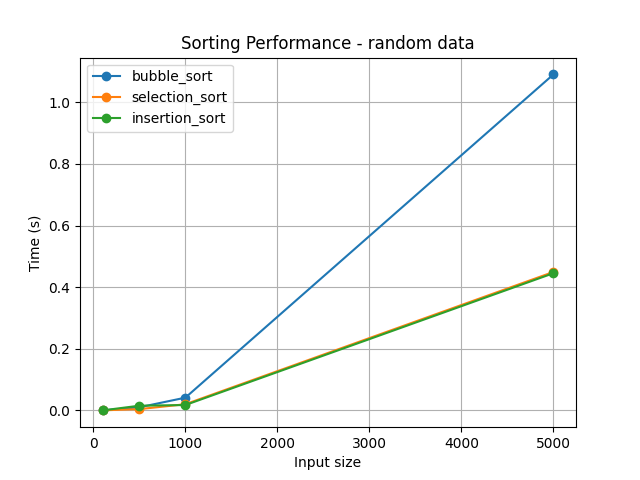
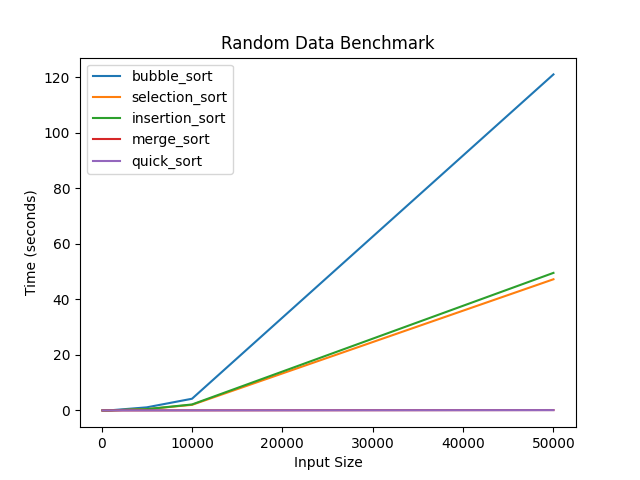
Week 2 benchmarks and performance plots

diff --git a/benchmarks/week2_performance.py b/benchmarks/week2_performance.py
@@ -1,0 +1,85 @@
+import sys
+import os
+
+# --- Ensure project root is in Python path ---
+sys.path.insert(0, os.path.abspath(os.path.join(os.path.dirname(__file__), "..")))
+
+# --- Standard imports ---
+import random
+import csv
+import time
+import matplotlib.pyplot as plt
+
+# --- Algorithm imports ---
+from src.sorting.basic_sorts import bubble_sort, selection_sort, insertion_sort
+from src.sorting.merge_sort import merge_sort
+from src.sorting.quick_sort import quick_sort
+
+# --- Configuration ---
+ALGORITHMS = {
+    "bubble_sort": bubble_sort,
+    "selection_sort": selection_sort,
+    "insertion_sort": insertion_sort,
+    "merge_sort": merge_sort,
+    "quick_sort": quick_sort
+}
+
+INPUT_SIZES = [100, 500, 1000, 5000, 10000, 50000]
+
+DATA_TYPES = {
+    "random": lambda n: [random.randint(0, n) for _ in range(n)],
+    "sorted": lambda n: list(range(n)),
+    "reverse_sorted": lambda n: list(range(n, 0, -1)),
+    "nearly_sorted": lambda n: list(range(n-1)) + [0],
+    "many_duplicates": lambda n: [random.randint(0, 9) for _ in range(n)],
+    "few_unique": lambda n: [random.choice([0,1,2]) for _ in range(n)]
+}
+
+RESULTS_DIR = "benchmarks/results"
+os.makedirs(RESULTS_DIR, exist_ok=True)
+CSV_FILE = os.path.join(RESULTS_DIR, "week2_comparison.csv")
+
+# --- Benchmark function ---
+def benchmark_algorithm(func, data):
+    """Time a single run of func on data"""
+    start = time.perf_counter()
+    func(list(data))  # use a copy to avoid modifying input
+    end = time.perf_counter()
+    return end - start
+
+# --- Run benchmarks ---
+results = []
+
+for data_name, generator in DATA_TYPES.items():
+    for size in INPUT_SIZES:
+        data = generator(size)
+        row = {"data_type": data_name, "size": size}
+        for name, func in ALGORITHMS.items():
+            # Repeat 3 times and take average
+            times = [benchmark_algorithm(func, data) for _ in range(3)]
+            row[name] = sum(times) / len(times)
+        results.append(row)
+        print(f"Completed {data_name} size {size}")
+
+# --- Save results to CSV ---
+with open(CSV_FILE, "w", newline="") as f:
+    writer = csv.DictWriter(f, fieldnames=["data_type", "size"] + list(ALGORITHMS.keys()))
+    writer.writeheader()
+    writer.writerows(results)
+
+print(f"\nBenchmark results saved to {CSV_FILE}")
+
+# --- Generate plots ---
+for data_name in DATA_TYPES.keys():
+    plt.figure()
+    for alg in ALGORITHMS.keys():
+        times = [r[alg] for r in results if r["data_type"] == data_name]
+        plt.plot(INPUT_SIZES, times, label=alg)
+    plt.xlabel("Input Size")
+    plt.ylabel("Time (seconds)")
+    plt.title(f"{data_name.replace('_', ' ').title()} Data Benchmark")
+    plt.legend()
+    plot_file = os.path.join(RESULTS_DIR, f"{data_name}_plot.png")
+    plt.savefig(plot_file)
+    plt.close()
+    print(f"Plot saved: {plot_file}")

diff --git a/src/sorting/quick_sort.py b/src/sorting/quick_sort.py
@@ -1,0 +1,53 @@
+import random
+from typing import List
+
+def quick_sort(arr: List[int], low: int = None, high: int = None, threshold: int = 10) -> List[int]:
+    """
+    QuickSort algorithm with randomized pivot and insertion sort optimization.
+
+    Args:
+        arr (List[int]): The input list to sort.
+        low (int): Starting index (default None, sets to 0).
+        high (int): Ending index (default None, sets to len(arr)-1).
+        threshold (int): Switch to insertion sort for subarrays smaller than this.
+
+    Returns:
+        List[int]: Sorted list (non-destructive).
+    """
+    if low is None or high is None:
+        arr = arr.copy()  # non-destructive
+        low = 0
+        high = len(arr) - 1
+
+    def insertion_sort(sub_arr: List[int], left: int, right: int):
+        for i in range(left + 1, right + 1):
+            key = sub_arr[i]
+            j = i - 1
+            while j >= left and sub_arr[j] > key:
+                sub_arr[j + 1] = sub_arr[j]
+                j -= 1
+            sub_arr[j + 1] = key
+
+    def partition(l: int, h: int) -> int:
+        pivot_index = random.randint(l, h)
+        arr[h], arr[pivot_index] = arr[pivot_index], arr[h]  # move pivot to end
+        pivot = arr[h]
+        i = l - 1
+        for j in range(l, h):
+            if arr[j] <= pivot:
+                i += 1
+                arr[i], arr[j] = arr[j], arr[i]
+        arr[i + 1], arr[h] = arr[h], arr[i + 1]
+        return i + 1
+
+    def _quick_sort(l: int, h: int):
+        if l < h:
+            if h - l + 1 <= threshold:
+                insertion_sort(arr, l, h)
+            else:
+                pi = partition(l, h)
+                _quick_sort(l, pi - 1)
+                _quick_sort(pi + 1, h)
+
+    _quick_sort(low, high)
+    return arr

diff --git a/src/sorting/merge_sort.py b/src/sorting/merge_sort.py
@@ -1,0 +1,34 @@
+from typing import List
+
+def merge(left: List[int], right: List[int]) -> List[int]:
+    """
+    Merge two sorted lists into a single sorted list.
+    """
+    result = []
+    i = j = 0
+
+    while i < len(left) and j < len(right):
+        if left[i] <= right[j]:
+            result.append(left[i])
+            i += 1
+        else:
+            result.append(right[j])
+            j += 1
+
+    # Append any remaining elements
+    result.extend(left[i:])
+    result.extend(right[j:])
+    return result
+
+def merge_sort(arr: List[int]) -> List[int]:
+    """
+    Perform merge sort on the input list and return a new sorted list.
+    Non-destructive: input list is not modified.
+    """
+    if len(arr) <= 1:
+        return arr[:]
+
+    mid = len(arr) // 2
+    left = merge_sort(arr[:mid])
+    right = merge_sort(arr[mid:])
+    return merge(left, right)

diff --git a/tests/test_merge_sort.py b/tests/test_merge_sort.py
@@ -1,0 +1,19 @@
+import pytest
+from src.sorting.merge_sort import merge_sort
+
+@pytest.mark.parametrize(
+    "input_list, expected",
+    [
+        ([], []),
+        ([1], [1]),
+        ([1, 2, 3, 4, 5], [1, 2, 3, 4, 5]),
+        ([5, 4, 3, 2, 1], [1, 2, 3, 4, 5]),
+        ([2, 3, 2, 1, 4, 3], [1, 2, 2, 3, 3, 4]),
+        ([5, 1, 4, 2, 8, 0, 3, 7, 6, 9], [0, 1, 2, 3, 4, 5, 6, 7, 8, 9]),
+    ]
+)
+def test_merge_sort(input_list, expected):
+    result = merge_sort(input_list)
+    assert result == expected
+    # Ensure original list is not modified
+    assert input_list != result or input_list == expected

diff --git a/tests/test_quick_sort.py b/tests/test_quick_sort.py
@@ -1,0 +1,19 @@
+import pytest
+from src.sorting.quick_sort import quick_sort
+
+@pytest.mark.parametrize(
+    "input_list, expected",
+    [
+        ([], []),
+        ([1], [1]),
+        ([1, 2, 3, 4, 5], [1, 2, 3, 4, 5]),
+        ([5, 4, 3, 2, 1], [1, 2, 3, 4, 5]),
+        ([2, 3, 2, 1, 4, 3], [1, 2, 2, 3, 3, 4]),
+        ([5, 1, 4, 2, 8, 0, 3, 7, 6, 9], [0, 1, 2, 3, 4, 5, 6, 7, 8, 9]),
+    ]
+)
+def test_quick_sort(input_list, expected):
+    result = quick_sort(input_list)
+    assert result == expected
+    # ensure non-destructive
+    assert input_list != result or input_list == expected
